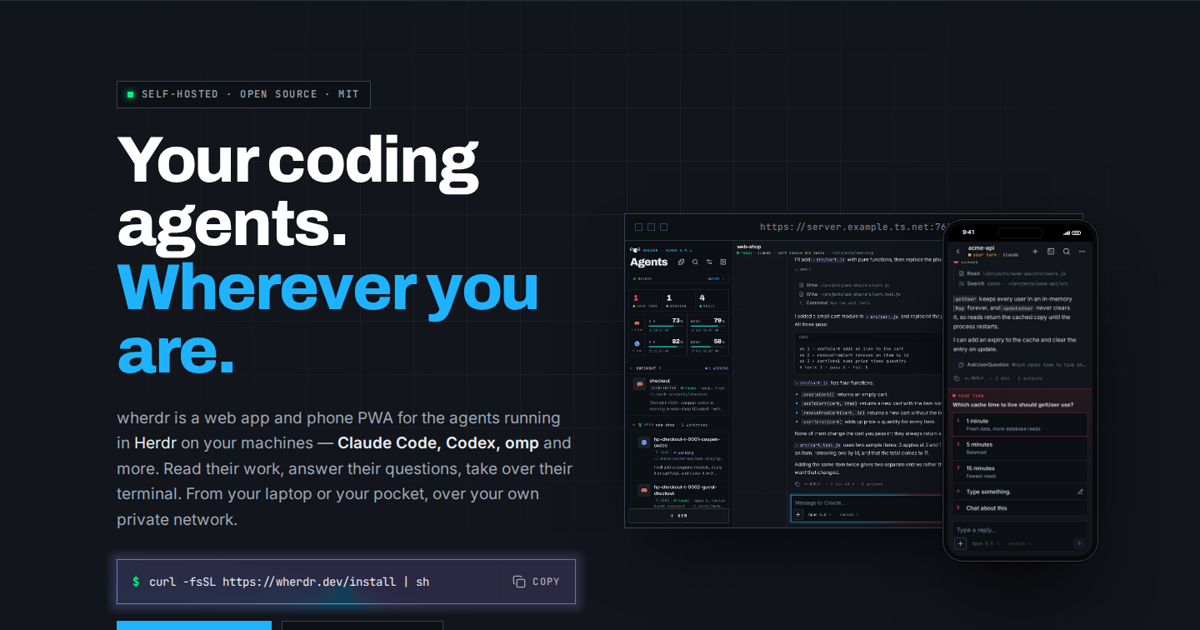
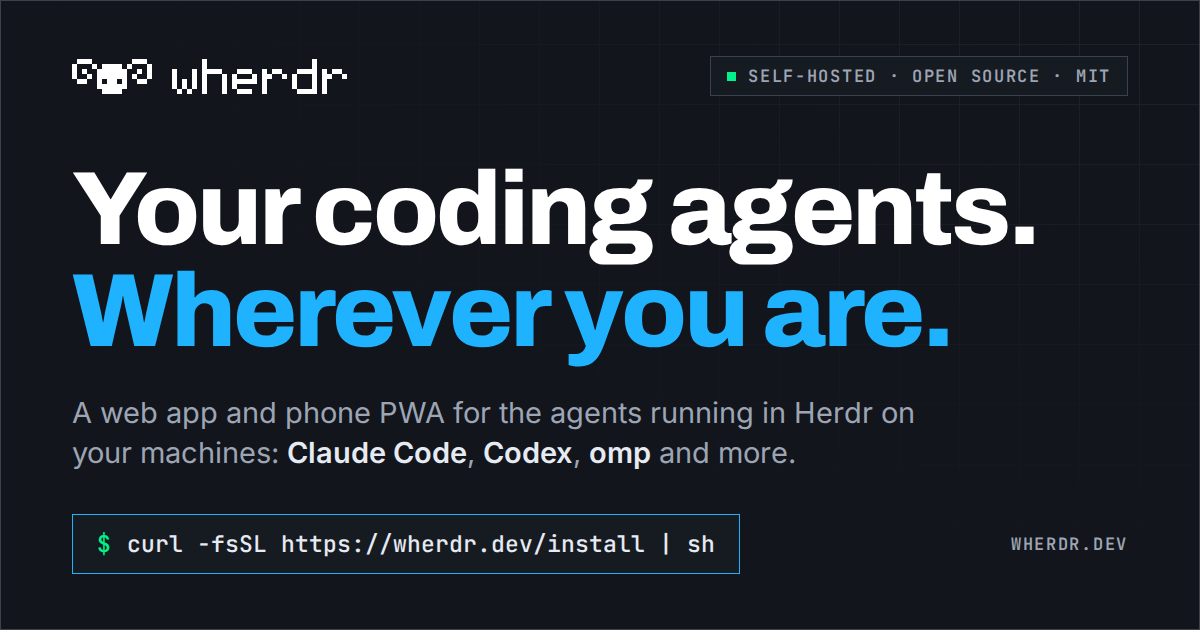
Site: sitemap, robots.txt, canonical link, share tags and structured data
wherdr.dev had no sitemap.xml and no robots.txt of its own, so search
engines had nothing pointing at its pages.

- sitemap.xml is written at build time (/, /agent.md), each page dated by
  the last commit of its sources; the deploy job fetches the history for it.
- robots.txt allows everything and names the sitemap.
- The home page gets a canonical link, og:url and SoftwareApplication
  JSON-LD; every page gets complete Open Graph and Twitter Card tags.
- New 1200x630 share image, drawn by website/tools/og.html.
- /install is sent with X-Robots-Tag: noindex; the demo already is noindex.

diff --git a/website/tools/og.html b/website/tools/og.html
@@ -1,0 +1,84 @@
+<!doctype html>
+<!--
+  Source of public/og.png, the 1200×630 image of link previews (og:image,
+  twitter:image). Not part of the built site. To redraw it: open this file
+  in a 1200×630 viewport (after `npm ci`, for the fonts) and save a screenshot
+  as public/og.png. Colours are the "wherdr Titanium" tokens of
+  app/assets/css/main.css; the pixel grids are those of app/utils/pixels.ts.
+-->
+<html lang="en">
+<head>
+<meta charset="utf-8">
+<title>wherdr share image</title>
+<style>
+@font-face { font-family: "Archivo Variable"; font-weight: 100 900; src: url("../node_modules/@fontsource-variable/archivo/files/archivo-latin-wght-normal.woff2") format("woff2"); }
+@font-face { font-family: "Inter Variable"; font-weight: 100 900; src: url("../node_modules/@fontsource-variable/inter/files/inter-latin-wght-normal.woff2") format("woff2"); }
+@font-face { font-family: "JetBrains Mono Variable"; font-weight: 100 800; src: url("../node_modules/@fontsource-variable/jetbrains-mono/files/jetbrains-mono-latin-wght-normal.woff2") format("woff2"); }
+:root { --bg: #12151b; --bg-2: #161a21; --line: #2a3038; --line-strong: #3a424e; --text: #e6eaf2; --muted: #9da5b4; --dim: #828a9a; --accent: #1fb2ff; --green: #00f28a; }
+* { box-sizing: border-box; margin: 0; }
+html, body { width: 1200px; height: 630px; overflow: hidden; }
+body {
+  position: relative; color: var(--text); background-color: var(--bg);
+  font-family: "Inter Variable", sans-serif; -webkit-font-smoothing: antialiased;
+}
+/* The hero grid: 1 px lines every 60 px, fading out to the right and bottom. */
+.grid {
+  position: absolute; inset: 0;
+  background-image: linear-gradient(to right, var(--line) 1px, transparent 1px), linear-gradient(to bottom, var(--line) 1px, transparent 1px);
+  background-size: 60px 60px; background-position: 59px 44px;
+  opacity: .55;
+  -webkit-mask-image: radial-gradient(120% 120% at 100% 0%, #000 0%, rgba(0, 0, 0, .35) 45%, transparent 80%);
+}
+.frame { position: absolute; inset: 0; border: 1px solid var(--line-strong); }
+.in { position: absolute; inset: 0; padding: 56px 72px 56px; display: flex; flex-direction: column; }
+.top { display: flex; align-items: center; justify-content: space-between; }
+.brand { display: flex; align-items: center; gap: 20px; color: #fff; }
+.brand svg { height: 35px; display: block; }
+.label { font-family: "JetBrains Mono Variable", monospace; font-size: 17px; font-weight: 600; letter-spacing: .1em; text-transform: uppercase; color: var(--muted); }
+.tag { display: inline-flex; align-items: center; gap: 12px; height: 40px; padding: 0 16px; border: 1px solid var(--line-strong); background: var(--bg-2); }
+.tag i { width: 9px; height: 9px; background: var(--green); }
+h1 { margin-top: auto; font-family: "Archivo Variable", sans-serif; font-weight: 800; font-size: 104px; letter-spacing: -0.03em; line-height: .98; color: #fff; }
+h1 em { font-style: normal; color: var(--accent); }
+.lead { margin-top: 30px; max-width: 900px; font-size: 29px; line-height: 1.4; color: var(--muted); }
+.lead b { font-weight: 600; color: var(--text); }
+.bottom { margin-top: 40px; display: flex; align-items: center; justify-content: space-between; }
+.cmd { display: inline-flex; align-items: center; gap: 16px; height: 60px; padding: 0 24px; border: 1px solid var(--accent); background: var(--bg-2); font-family: "JetBrains Mono Variable", monospace; font-size: 23px; font-weight: 500; font-variant-ligatures: none; color: var(--text); }
+.cmd span { color: var(--green); }
+</style>
+</head>
+<body>
+<div class="grid"></div>
+<div class="frame"></div>
+<div class="in">
+  <div class="top">
+    <div class="brand"><svg id="ram"></svg><svg id="word"></svg></div>
+    <div class="label tag"><i></i>Self-hosted · Open source · MIT</div>
+  </div>
+  <h1>Your coding agents.<br><em>Wherever you are.</em></h1>
+  <p class="lead">A web app and phone PWA for the agents running in Herdr on your machines: <b>Claude Code</b>, <b>Codex</b>, <b>omp</b> and more.</p>
+  <div class="bottom">
+    <div class="cmd"><span>$</span>curl -fsSL https://wherdr.dev/install | sh</div>
+    <div class="label">wherdr.dev</div>
+  </div>
+</div>
+<script>
+const RAM = ['.###........###.', '#...#.####.#...#', '#.#..######..#.#', '#..#.######.#..#', '.##..#.##.#..##.', '.....######.....', '......####......']
+const GLYPHS = {
+  w: ['.....', '.....', '#...#', '#...#', '#.#.#', '#.#.#', '.#.#.'],
+  h: ['#....', '#....', '####.', '#...#', '#...#', '#...#', '#...#'],
+  e: ['.....', '.....', '.###.', '#...#', '#####', '#....', '.###.'],
+  r: ['.....', '.....', '#.##.', '##..#', '#....', '#....', '#....'],
+  d: ['....#', '....#', '.####', '#...#', '#...#', '#...#', '.####'],
+}
+const word = text => RAM.map((_, y) => [...text].map(ch => GLYPHS[ch][y]).join('.'))
+function draw(id, grid) {
+  const svg = document.getElementById(id)
+  svg.setAttribute('viewBox', `0 0 ${grid[0].length} 7`)
+  svg.setAttribute('shape-rendering', 'crispEdges')
+  svg.innerHTML = grid.flatMap((row, y) => [...row].map((c, x) => c === '#' ? `<rect x="${x}" y="${y}" width="1" height="1" fill="currentColor"/>` : '')).join('')
+}
+draw('ram', RAM)
+draw('word', word('wherdr'))
+</script>
+</body>
+</html>

diff --git a/website/nuxt.config.ts b/website/nuxt.config.ts
@@ -2,8 +2,21 @@
 // static assets (wrangler.jsonc) and, privately, by nginx (Dockerfile).
 // Everything is bundled: fonts (@fontsource), icons, images. No request
 // leaves the page: no web fonts service, no CDN, no analytics.
-const title = 'wherdr — your Herdr coding agents, from your phone and your browser'
-const description = 'wherdr is a self-hosted web app and PWA to follow and drive the coding agents (Claude Code, Codex, omp…) running in Herdr on your machines. Private network only, open source, MIT.'
+import { execFileSync } from 'node:child_process'
+import { writeFileSync } from 'node:fs'
+import { join } from 'node:path'
+import { DESCRIPTION as description, SHARE_IMAGE, SITEMAP_PAGES, TITLE as title, sitemapXml } from './app/utils/seo'
+
+// Date of the last commit that touched one of `sources` (paths inside website/).
+// Without Git history (the Docker build context), the build date.
+function lastModified(cwd: string, sources: readonly string[]): string {
+  try {
+    const date = execFileSync('git', ['log', '-1', '--format=%cI', '--', ...sources], { cwd, encoding: 'utf8', stdio: ['ignore', 'pipe', 'ignore'] }).trim()
+    if (date) return date
+  }
+  catch { /* no git, or not a repository */ }
+  return new Date().toISOString()
+}
 
 export default defineNuxtConfig({
   modules: ['@nuxt/ui'],
@@ -39,12 +52,23 @@ export default defineNuxtConfig({
         { name: 'description', content: description },
         { name: 'theme-color', content: '#12151b' },
         { name: 'color-scheme', content: 'dark' },
+        // Link previews. The canonical address, og:url and the structured data
+        // belong to the home page alone: components/HomePage.vue.
         { property: 'og:type', content: 'website' },
-        { property: 'og:url', content: 'https://wherdr.dev/' },
+        { property: 'og:site_name', content: 'wherdr' },
+        { property: 'og:locale', content: 'en_US' },
         { property: 'og:title', content: title },
         { property: 'og:description', content: description },
-        { property: 'og:image', content: 'https://wherdr.dev/og.png' },
+        { property: 'og:image', content: SHARE_IMAGE.url },
+        { property: 'og:image:type', content: 'image/png' },
+        { property: 'og:image:width', content: String(SHARE_IMAGE.width) },
+        { property: 'og:image:height', content: String(SHARE_IMAGE.height) },
+        { property: 'og:image:alt', content: SHARE_IMAGE.alt },
         { name: 'twitter:card', content: 'summary_large_image' },
+        { name: 'twitter:title', content: title },
+        { name: 'twitter:description', content: description },
+        { name: 'twitter:image', content: SHARE_IMAGE.url },
+        { name: 'twitter:image:alt', content: SHARE_IMAGE.alt },
       ],
       link: [
         { rel: 'icon', type: 'image/svg+xml', href: '/icon.svg' },
@@ -55,7 +79,16 @@ export default defineNuxtConfig({
   },
 
   nitro: {
-    // One page; /install, /_headers and the images are plain files of public/.
+    // One page; /install, /robots.txt, /_headers and the images are plain files of public/.
     prerender: { routes: ['/'], crawlLinks: false },
+  },
+
+  hooks: {
+    // sitemap.xml, written next to the copied public/ files, each page dated
+    // by the last commit of its sources.
+    'nitro:build:public-assets': (nitro) => {
+      const entries = SITEMAP_PAGES.map(page => ({ path: page.path, lastmod: lastModified(nitro.options.rootDir, page.sources) }))
+      writeFileSync(join(nitro.options.output.publicDir, 'sitemap.xml'), sitemapXml(entries))
+    },
   },
 })

diff --git a/tests/websiteSeo.test.ts b/tests/websiteSeo.test.ts
@@ -1,0 +1,69 @@
+import { existsSync, readFileSync } from 'node:fs'
+import { describe, expect, it } from 'vitest'
+import { REPO } from '../website/app/utils/site'
+import { DESCRIPTION, SHARE_IMAGE, SITEMAP_PAGES, SITE_URL, TITLE, sitemapXml, softwareApplication } from '../website/app/utils/seo'
+
+// What search engines read on wherdr.dev: robots.txt, sitemap.xml, the share
+// image and the structured data of the home page.
+const read = (path: string) => readFileSync(new URL(path, import.meta.url))
+
+describe('robots.txt', () => {
+  const robots = read('../website/public/robots.txt').toString()
+
+  it('lets every crawler in and names the sitemap', () => {
+    const rules = robots.split('\n').filter(l => l && !l.startsWith('#'))
+    expect(rules).toEqual(['User-agent: *', 'Allow: /', `Sitemap: ${SITE_URL}/sitemap.xml`])
+  })
+})
+
+describe('sitemap.xml', () => {
+  it('lists each page with its absolute address and date', () => {
+    const xml = sitemapXml([{ path: '/', lastmod: '2026-01-02T03:04:05+00:00' }, { path: '/agent.md', lastmod: '2026-01-03' }])
+    expect(xml.startsWith('<?xml version="1.0" encoding="UTF-8"?>\n<urlset xmlns="http://www.sitemaps.org/schemas/sitemap/0.9">')).toBe(true)
+    expect([...xml.matchAll(/<loc>(.*?)<\/loc>\s*<lastmod>(.*?)<\/lastmod>/g)].map(m => [m[1], m[2]])).toEqual([
+      ['https://wherdr.dev/', '2026-01-02T03:04:05+00:00'],
+      ['https://wherdr.dev/agent.md', '2026-01-03'],
+    ])
+  })
+
+  it('escapes what XML reserves', () => {
+    expect(sitemapXml([{ path: '/?a=1&b=<2>', lastmod: 'x' }])).toContain('<loc>https://wherdr.dev/?a=1&#38;b=&#60;2&#62;</loc>')
+  })
+
+  it('names pages that exist, and not the demo, the installer or llms.txt', () => {
+    expect(SITEMAP_PAGES.map(p => p.path)).toEqual(['/', '/agent.md'])
+    for (const page of SITEMAP_PAGES) {
+      for (const source of page.sources) expect(existsSync(new URL(`../website/${source}`, import.meta.url))).toBe(true)
+    }
+  })
+})
+
+describe('link previews and structured data', () => {
+  it('share image is the 1200×630 PNG the tags announce', () => {
+    const png = read('../website/public/og.png')
+    expect(png.subarray(1, 4).toString()).toBe('PNG')
+    expect([png.readUInt32BE(16), png.readUInt32BE(20)]).toEqual([SHARE_IMAGE.width, SHARE_IMAGE.height])
+    expect(SHARE_IMAGE.url).toBe(`${SITE_URL}/og.png`)
+  })
+
+  it('title and description fit a search result', () => {
+    expect(TITLE.length).toBeLessThanOrEqual(70)
+    expect(DESCRIPTION.length).toBeLessThanOrEqual(200)
+  })
+
+  it('describes wherdr as a free, MIT-licensed application', () => {
+    const app = softwareApplication()
+    expect(app).toMatchObject({
+      '@context': 'https://schema.org',
+      '@type': 'SoftwareApplication',
+      'name': 'wherdr',
+      'description': DESCRIPTION,
+      'url': 'https://wherdr.dev/',
+      'license': 'https://opensource.org/licenses/MIT',
+      'installUrl': 'https://wherdr.dev/install',
+      'sameAs': [REPO],
+    })
+    // Plain data: it is inlined in the page as JSON.
+    expect(JSON.parse(JSON.stringify(app))).toEqual(app)
+  })
+})

diff --git a/website/app/utils/seo.ts b/website/app/utils/seo.ts
@@ -1,0 +1,45 @@
+// What search engines and link previews read: the page title and description,
+// the sitemap and the structured data. Pure: nuxt.config.ts builds the head
+// and sitemap.xml from it, and a root test checks the output.
+import { REPO } from './site'
+
+export const SITE_URL = 'https://wherdr.dev'
+export const TITLE = 'wherdr — your Herdr coding agents, from your phone and your browser'
+export const DESCRIPTION = 'wherdr is a self-hosted web app and PWA to follow and drive the coding agents (Claude Code, Codex, omp…) running in Herdr on your machines. Private network only, open source, MIT.'
+// 1200×630, drawn by tools/og.html.
+export const SHARE_IMAGE = { url: `${SITE_URL}/og.png`, width: 1200, height: 630, alt: 'wherdr — Your coding agents. Wherever you are.' }
+
+// The indexable pages, each with the files of website/ whose last commit dates it.
+// Left out on purpose: /demo/ (the app itself, noindex: no text of its own),
+// /install (a shell script) and /llms.txt (an index of links, read at its fixed address).
+export const SITEMAP_PAGES = [
+  { path: '/', sources: ['app', 'nuxt.config.ts', 'public/og.png'] },
+  { path: '/agent.md', sources: ['public/agent.md'] },
+] as const
+
+export interface SitemapEntry { path: string, lastmod: string }
+
+const xmlEscape = (s: string) => s.replace(/[&<>"']/g, c => `&#${c.charCodeAt(0)};`)
+
+export function sitemapXml(entries: SitemapEntry[]): string {
+  const urls = entries.map(e => `  <url>\n    <loc>${xmlEscape(SITE_URL + e.path)}</loc>\n    <lastmod>${xmlEscape(e.lastmod)}</lastmod>\n  </url>`)
+  return `<?xml version="1.0" encoding="UTF-8"?>\n<urlset xmlns="http://www.sitemaps.org/schemas/sitemap/0.9">\n${urls.join('\n')}\n</urlset>\n`
+}
+
+// schema.org description of wherdr, for the JSON-LD block of the home page.
+export const softwareApplication = () => ({
+  '@context': 'https://schema.org',
+  '@type': 'SoftwareApplication',
+  'name': 'wherdr',
+  'description': DESCRIPTION,
+  'url': `${SITE_URL}/`,
+  'image': SHARE_IMAGE.url,
+  'applicationCategory': 'DeveloperApplication',
+  'operatingSystem': 'macOS, Linux',
+  'license': 'https://opensource.org/licenses/MIT',
+  'isAccessibleForFree': true,
+  'offers': { '@type': 'Offer', 'price': '0', 'priceCurrency': 'USD' },
+  'installUrl': `${SITE_URL}/install`,
+  'softwareHelp': { '@type': 'CreativeWork', 'url': `${SITE_URL}/agent.md` },
+  'sameAs': [REPO],
+})

diff --git a/website/app/components/HomePage.vue b/website/app/components/HomePage.vue
@@ -4,6 +4,16 @@
 // feature stories, and an install that types itself.
 import { AGENT_PROMPT, REPO } from '~/utils/site'
 import { BREW_COMMANDS, INSTALL_COMMAND, ONE_COMMAND_DEMO, PLUGIN_COMMAND, RUNNERS } from '~/utils/installDemo'
+import { SITE_URL, softwareApplication } from '~/utils/seo'
+
+// Only this page is the site's address for search engines: the generated
+// 404 page shares the rest of the head (nuxt.config.ts) but not these.
+useHead({
+  link: [{ rel: 'canonical', href: `${SITE_URL}/` }],
+  meta: [{ property: 'og:url', content: `${SITE_URL}/` }],
+  // "<" escaped: nothing in the data can close the script element.
+  script: [{ type: 'application/ld+json', innerHTML: JSON.stringify(softwareApplication()).replace(/</g, '\\u003c') }],
+})
 
 const stories = [
   {

diff --git a/website/README.md b/website/README.md
@@ -18,6 +18,14 @@ makes no request to another site.
   `text/plain` for `/install` and long caching for `/_nuxt/`. Change both together.
 - **Deploy (private preview)**: `SITE_BIND=<tailscale-ip> docker compose up -d --build` — nginx on
   `${SITE_BIND:-127.0.0.1}:${SITE_PORT:-8120}`, serving the same `nuxt generate` output.
+- **Search engines and link previews**: `app/utils/seo.ts` holds the title, the description, the
+  pages of `sitemap.xml` and the JSON-LD `SoftwareApplication` block. `nuxt.config.ts` sets the
+  Open Graph / Twitter tags and writes `sitemap.xml` at build time, each page dated by the last
+  commit of its sources (the build date without Git history, as in the Docker build); the home
+  page adds the canonical link and the structured data. `public/robots.txt` allows everything and
+  names the sitemap. The demo (`/demo/`) is `noindex` and `/install` is sent with
+  `X-Robots-Tag: noindex`: neither is in the sitemap. `public/og.png` (1200×630) is a screenshot
+  of `tools/og.html`: open it in a 1200×630 viewport to redraw it.
 - **Background**: `components/GridBackground.vue` draws the hero and closing grid: dots at the
   line crossings and short glowing packets along the lines.
 - **Live demos**: the hero phone and desktop and the three feature stories play made-up sessions

diff --git a/CHANGELOG.md b/CHANGELOG.md
@@ -8,6 +8,10 @@ All notable changes to this project are documented here. The format follows
 
 ### Added
 
+- **wherdr.dev for search engines**: `sitemap.xml` generated at build time with the date of each
+  page's last change, a `robots.txt` that names it, a canonical link, complete Open Graph and
+  Twitter Card tags with a new 1200×630 share image, and `SoftwareApplication` structured data.
+  The demo and the installer script stay out of search results.
 - **Browser demo at [wherdr.dev/demo](https://wherdr.dev/demo/)**: the real app, built with
   `npm run build:demo` (static, no server), on scripted agents that run in the page — two
   projects, Claude Code, Codex and omp in different states, a split with a dev server, the Project
